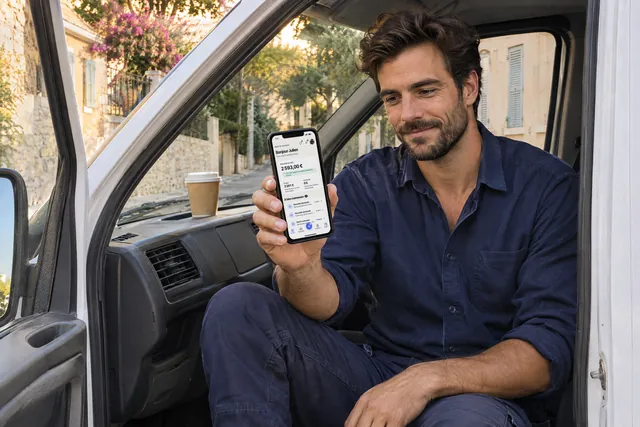
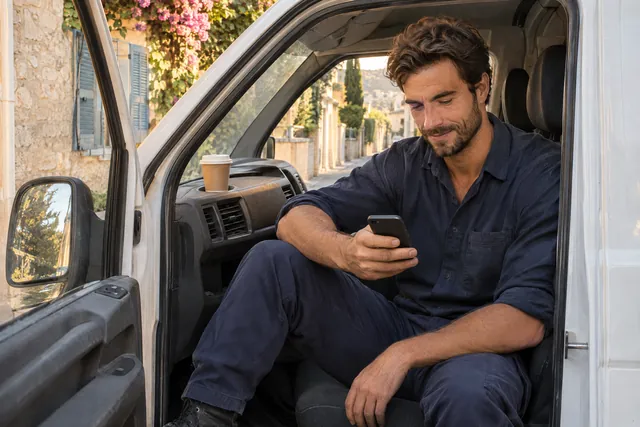
feat(F-121): téléphones tenus naturellement et photo de la côte (lot 27)
Cinq scènes refaites sans écran tourné vers l'objectif (camionnette, réception,
projet, devis, suivi), photo de la côte à la place de la carte dans la section
« Où intervient MENAO ? » de l'accueil. ADR 0273, provenance documentée.

diff --git a/apps/web/src/i18n/fr.ts b/apps/web/src/i18n/fr.ts
@@ -1014,20 +1014,20 @@ export const fr = {
       julienPortrait:
         "Un artisan plombier souriant, bras croisés, adossé à sa camionnette dans une rue de village",
       julienVan:
-        "Un artisan assis dans sa camionnette en fin de journée, souriant devant l'accueil de l'application MENAO sur son téléphone",
+        "Un artisan assis dans sa camionnette en fin de journée regarde son téléphone en souriant",
       meeting: "Une particulière accueille un artisan à la porte de son appartement",
       handover:
         "Un artisan et sa cliente dans une salle de bain rénovée : elle signe la réception du chantier sur un téléphone",
-      camilleProject:
-        "Une particulière décrit à voix haute les travaux de sa salle de bain ancienne, son téléphone à la main",
+      camilleProject: "Une particulière photographie sa salle de bain ancienne avec son téléphone",
       camilleArtisans:
         "Une particulière sur son canapé choisit des artisans vérifiés dans l'application MENAO",
-      camilleQuote:
-        "Une particulière à sa table de cuisine s'apprête à signer un devis sur son téléphone",
+      camilleQuote: "Une particulière à sa table de cuisine signe un devis sur son téléphone",
       camilleFollow:
         "Une particulière en terrasse de café suit l'avancement de son chantier sur son téléphone",
       camillePortrait:
         "Une particulière souriante dans sa salle de bain rénovée, avec une douche à l'italienne",
+      coast:
+        "Vue aérienne d'un littoral méditerranéen : villages aux toits de tuiles, petit port et collines boisées",
     },
     home: "Accueil",
     clientSteps: {

diff --git a/apps/web/src/components/site/zone-section.tsx b/apps/web/src/components/site/zone-section.tsx
@@ -4,6 +4,7 @@ import Link from "next/link";
 import { ButtonLink } from "@/components/ui";
 import { fr } from "@/i18n/fr";
 import { COAST, COMMUNE_COORDS } from "@/lib/site/commune-coords";
+import { ScenePhoto } from "./scene-photo";
 
 const t = fr.home.zone;
 const about = fr.pages.about;
@@ -92,8 +93,9 @@ export function ZoneMap({
 }
 
 /**
- * « Où intervient MENAO ? » (ADR 0264) : texte de « À propos », carte du 06 et communes couvertes,
- * avec le lien vers la page carrefour /villes.
+ * « Où intervient MENAO ? » (ADR 0264) : texte de « À propos », photo de la côte (ADR 0273) et
+ * communes couvertes, avec le lien vers la page carrefour /villes. La carte reste sur les pages
+ * métier-ville, où elle situe la commune.
  */
 export function ZoneSection({ id, communes }: { id: string; communes: readonly Commune[] }) {
   return (
@@ -118,8 +120,12 @@ export function ZoneSection({ id, communes }: { id: string; communes: readonly C
           </div>
         </div>
         <div className="flex min-w-0 flex-1 flex-col gap-4">
-          <div className="overflow-hidden rounded-[1.25rem] border border-border">
-            <ZoneMap communes={communes} />
+          <div className="aspect-[3/2] overflow-hidden rounded-[1.25rem]">
+            <ScenePhoto
+              scene="coast"
+              sizes="(min-width: 1024px) 620px, 92vw"
+              className="size-full"
+            />
           </div>
           <ul aria-label={t.communesLabel} className="flex flex-wrap gap-2">
             {communes.map((commune) => (

diff --git a/apps/web/src/components/site/scene-photo.tsx b/apps/web/src/components/site/scene-photo.tsx
@@ -2,8 +2,8 @@ import { fr } from "@/i18n/fr";
 
 /**
  * Photos de scènes du site (ADR 0271) : Julien, artisan, et Camille, cliente, deux personnages
- * fictifs générés par IA, avec les vrais écrans de l'application dans leurs téléphones. WebP
- * précompressés dans public/images/scenes (1 600, 960 et 640 px), sans optimisation Vercel.
+ * fictifs générés par IA, téléphone tenu naturellement (ADR 0273), et la côte des Alpes-Maritimes.
+ * WebP précompressés dans public/images/scenes (1 600, 960 et 640 px), sans optimisation Vercel.
  */
 const FILES = {
   julienPortrait: "julien-portrait",
@@ -15,6 +15,7 @@ const FILES = {
   camilleQuote: "camille-devis",
   camilleFollow: "camille-suivi",
   camillePortrait: "camille-portrait",
+  coast: "cote-alpes-maritimes",
 } as const;
 
 export type SceneKey = keyof typeof FILES;

diff --git a/apps/web/src/app/(site)/comment-ca-marche/page.tsx b/apps/web/src/app/(site)/comment-ca-marche/page.tsx
@@ -125,7 +125,7 @@ export default function HowItWorksPage() {
                   </h3>
                   <p className="leading-relaxed text-pretty text-muted-foreground">{step.text}</p>
                 </div>
-                {/* La scène de l'étape, avec le vrai écran dans le téléphone (ADR 0271). */}
+                {/* La scène de l'étape (ADR 0271, ADR 0273). */}
                 <div
                   className={`aspect-[3/2] overflow-hidden rounded-card bg-primary-soft ${i % 2 ? "lg:order-1" : ""}`}
                 >

diff --git a/apps/web/src/app/(site)/pro/page.tsx b/apps/web/src/app/(site)/pro/page.tsx
@@ -455,7 +455,7 @@ export default async function ProLandingPage() {
               <ScenePhoto
                 scene="handover"
                 sizes="(min-width: 1024px) 480px, 85vw"
-                position="38% 45%"
+                position="28% 45%"
                 className="size-full"
               />
             </div>

diff --git a/docs/images/photos-generees.md b/docs/images/photos-generees.md
@@ -701,6 +701,7 @@ Neuf scènes avec deux personnages récurrents : Julien, artisan plombier, et Ca
 - Constance des visages : chaque scène a été générée avec la fiche de son personnage en image de référence (quatre vues sur fond neutre). Les deux fiches ont été produites le même jour par le propriétaire du projet avec son propre outil de génération, à partir de photos des séries d'octobre ; le nom de cet outil n'est pas connu, il n'est donc pas attribué.
 - Écrans : les téléphones étaient générés avec un écran noir. Les écrans visibles sont de vraies captures de l'application (personnes et données fictives), incrustées ensuite ; rien de l'interface n'est généré.
 - Deux essais par scène, un seul retenu. Prompts exacts, coûts et essais écartés : journal de génération conservé hors du dépôt.
+- Mise à jour du même soir (ADR 0273) : `julien-camionnette`, `reception-chantier`, `camille-projet`, `camille-devis` et `camille-suivi` ont été refaites sans écran incrusté ; leurs lignes ci-dessous décrivent l'ancienne version, la nouvelle est dans la série suivante.
 
 | Fichier | Prompt exact | Écran incrusté | Dimensions | Poids (Ko) |
 |---|---|---|---|---:|
@@ -823,3 +824,90 @@ Style: authentic candid documentary photograph, exceptional photorealism, full-f
 Avoid: any text, letters, numbers, logos, brand names, watermarks, readable signage, license plates, UI or generated screen content, glossy stock-photo posing, wide toothy smiles, plastic or retouched skin, excessive bokeh, HDR, teal-orange cinematic grading, CGI, 3D render, illustration, extra or fused fingers, distorted phone, duplicated objects, children, celebrities. Fictional illustrative scene, not a real customer or a real tradesperson. Return one single photograph: no collage, no border.
 ```
 
+## Série du 10 novembre 2026 (soir) : téléphone tenu naturellement et côte des Alpes-Maritimes (ADR 0273)
+
+Cinq scènes de la série précédente sont refaites : le téléphone y était tourné vers l'objectif (pour y incruster un écran), ce qui donnait des poses fausses. Ici, la personne regarde son écran, on voit le dos du téléphone, et aucun écran n'est incrusté. Les fichiers gardent leur nom ; les prompts de la série précédente, plus haut, ne décrivent donc plus ces cinq images. S'y ajoute la photo de la section « Où intervient MENAO ? » de l'accueil.
+
+- Outil : OpenRouter, API d'images. Modèle : `openai/gpt-image-2.6-sunburst`, 2 400 × 1 600, qualité `high`.
+- Références jointes : les fiches de personnage P1 (Julien) et P2 (Camille) ; aucune pour la côte.
+- Deux essais par image, le meilleur retenu. La côte est une image d'illustration : elle ne reproduit pas un lieu précis.
+
+| Fichier | Prompt exact | Essai retenu | Dimensions | Poids (Ko) |
+|---|---|---|---|---:|
+| [apps/web/public/images/scenes/julien-camionnette.webp](../../apps/web/public/images/scenes/julien-camionnette.webp) | [Prompt exact](#prompt-v2-julien-camionnette) | essai 2 | 1600 × 1067 | 154,286 |
+| [apps/web/public/images/scenes/reception-chantier.webp](../../apps/web/public/images/scenes/reception-chantier.webp) | [Prompt exact](#prompt-v2-reception-chantier) | essai 2 | 1600 × 1067 | 115,324 |
+| [apps/web/public/images/scenes/camille-projet.webp](../../apps/web/public/images/scenes/camille-projet.webp) | [Prompt exact](#prompt-v2-camille-projet) | essai 1 | 1600 × 1067 | 135,216 |
+| [apps/web/public/images/scenes/camille-devis.webp](../../apps/web/public/images/scenes/camille-devis.webp) | [Prompt exact](#prompt-v2-camille-devis) | essai 1 | 1600 × 1067 | 141,632 |
+| [apps/web/public/images/scenes/camille-suivi.webp](../../apps/web/public/images/scenes/camille-suivi.webp) | [Prompt exact](#prompt-v2-camille-suivi) | essai 1 | 1600 × 1067 | 140,068 |
+| [apps/web/public/images/scenes/cote-alpes-maritimes.webp](../../apps/web/public/images/scenes/cote-alpes-maritimes.webp) | [Prompt exact](#prompt-v2-cote-alpes-maritimes) | essai 2 | 1600 × 1067 | 377,118 |
+
+### Prompt julien-camionnette (version du soir)
+
+<a id="prompt-v2-julien-camionnette"></a>
+
+```text
+Output: one landscape 3:2 photograph, 2400 x 1600 px or the highest native resolution available.
+Late afternoon golden light. Julien sits sideways on the driver's seat of his parked plain white work van, door open, engine off, one foot on the step. He holds his smartphone low in one hand, forearm resting on his thigh, and looks down at it with a quiet satisfied smile; a paper cup of coffee on the dashboard. A pale-stone residential street near Nice outside. JULIEN: fictional French plumber, 36 years old, medium height, lean athletic build, lightly tanned skin, thick wavy dark-brown hair slightly tousled, short full dark beard, dark-brown eyes, calm friendly face. He is the SAME MAN as in the attached Julien reference images: keep his face, hair, beard and build identical. Outfit: plain navy cotton work shirt with sleeves rolled to the forearm, navy work trousers, no apron, no logo anywhere. Composition: seen through the open door at eye level, Julien centred-right, from the knees up; neither hand on the steering wheel.
+Phone (critical): a modern unbranded smartphone used NATURALLY, exactly the way people really use a phone. Its screen faces the person who is looking at it, never the camera. The camera sees only the plain dark matte BACK of the phone or its thin edge; the display is not visible, or at most a thin foreshortened sliver. No logo on the back. The eyes of the person are clearly directed at the screen. Relaxed natural grip with correct hand anatomy: thumb on the near side, the other fingers wrapped behind the phone, wrist straight, nothing twisted. The phone is small in the frame, it is never presented, raised or shown to the camera like in an advertisement.
+Style: authentic candid documentary photograph, exceptional photorealism, full-frame 35-40 mm lens at f/4, realistic skin pores and small imperfections, natural hair and fabric texture, light photographic grain. Soft natural Côte d'Azur daylight, gentle neutral-warm grading with subtle cool blue shadows, palette of pale limestone, cream and navy blue, restrained contrast. Correct human anatomy, five fingers per hand, natural grip. Homogeneous MENAO series aesthetic, same look as the reference images.
+Avoid: any text, letters, numbers, logos, brand names, watermarks, readable signage, license plates, UI or generated screen content, glossy stock-photo posing, wide toothy smiles, plastic or retouched skin, excessive bokeh, HDR, teal-orange cinematic grading, CGI, 3D render, illustration, extra or fused fingers, distorted phone, phone screen turned toward the camera, phone held up beside the face, hand twisted backwards, duplicated objects, children, celebrities. Fictional illustrative scene, not a real customer or a real tradesperson. Return one single photograph: no collage, no border.
+```
+
+### Prompt reception-chantier (version du soir)
+
+<a id="prompt-v2-reception-chantier"></a>
+
+```text
+Output: one landscape 3:2 photograph, 2400 x 1600 px or the highest native resolution available.
+Julien and Camille stand side by side, shoulders almost touching, in the same small bathroom after renovation: walk-in shower with an extra-flat white shower tray and a fixed clear-glass panel, thermostatic shower column, large-format pale stone wall tiles, oak vanity unit with a white basin and a round mirror, frosted window, everything new and spotless. Julien holds his smartphone between them at chest height, tilted up so that they can both read it; Camille signs on its screen with her index finger. Both look down at the phone and smile naturally. JULIEN: fictional French plumber, 36 years old, medium height, lean athletic build, lightly tanned skin, thick wavy dark-brown hair slightly tousled, short full dark beard, dark-brown eyes, calm friendly face. He is the SAME MAN as in the attached Julien reference images: keep his face, hair, beard and build identical. Outfit: plain navy cotton work shirt with sleeves rolled to the forearm, navy work trousers, no apron, no logo anywhere. CAMILLE: fictional French woman, 38 years old, slim, light olive skin, shoulder-length wavy dark-brown hair, dark-brown eyes, natural minimal make-up, warm intelligent face. She is the SAME WOMAN as in the attached Camille reference images: keep her face, hair and build identical. Outfit: cream linen shirt with sleeves rolled, dark straight jeans, no jewellery except a thin watch. Composition: medium shot from the hips up, camera at eye level facing them, the two people on the left two-thirds, the glass panel and the vanity unit clearly visible on the right.
+Phone (critical): a modern unbranded smartphone used NATURALLY, exactly the way people really use a phone. Its screen faces the person who is looking at it, never the camera. The camera sees only the plain dark matte BACK of the phone or its thin edge; the display is not visible, or at most a thin foreshortened sliver. No logo on the back. The eyes of the person are clearly directed at the screen. Relaxed natural grip with correct hand anatomy: thumb on the near side, the other fingers wrapped behind the phone, wrist straight, nothing twisted. The phone is small in the frame, it is never presented, raised or shown to the camera like in an advertisement.
+Style: authentic candid documentary photograph, exceptional photorealism, full-frame 35-40 mm lens at f/4, realistic skin pores and small imperfections, natural hair and fabric texture, light photographic grain. Soft natural Côte d'Azur daylight, gentle neutral-warm grading with subtle cool blue shadows, palette of pale limestone, cream and navy blue, restrained contrast. Correct human anatomy, five fingers per hand, natural grip. Homogeneous MENAO series aesthetic, same look as the reference images.
+Avoid: any text, letters, numbers, logos, brand names, watermarks, readable signage, license plates, UI or generated screen content, glossy stock-photo posing, wide toothy smiles, plastic or retouched skin, excessive bokeh, HDR, teal-orange cinematic grading, CGI, 3D render, illustration, extra or fused fingers, distorted phone, phone screen turned toward the camera, phone held up beside the face, hand twisted backwards, duplicated objects, children, celebrities. Fictional illustrative scene, not a real customer or a real tradesperson. Return one single photograph: no collage, no border.
+```
+
+### Prompt camille-projet (version du soir)
+
+<a id="prompt-v2-camille-projet"></a>
+
+```text
+Output: one landscape 3:2 photograph, 2400 x 1600 px or the highest native resolution available.
+Camille stands in the doorway of a small dated bathroom in a Nice apartment before renovation: built-in white bathtub with an old shower curtain, 1970s yellow-beige patterned wall tiles, white pedestal washbasin, round mirror, terracotta floor tiles, one frosted window, clean but clearly old. She is taking a photo of the old bathtub with her smartphone: she holds the phone upright in both hands at chest height in front of her, aimed at the bathtub, and looks at its screen with a thoughtful, concentrated expression. CAMILLE: fictional French woman, 38 years old, slim, light olive skin, shoulder-length wavy dark-brown hair, dark-brown eyes, natural minimal make-up, warm intelligent face. She is the SAME WOMAN as in the attached Camille reference images: keep her face, hair and build identical. Outfit: cream linen shirt with sleeves rolled, dark straight jeans, no jewellery except a thin watch. Composition: medium shot from the hips up, camera inside the bathroom looking toward the doorway; Camille on the right third in three-quarter front view, the old bathtub and patterned tiles clearly readable on the left.
+Phone (critical): a modern unbranded smartphone used NATURALLY, exactly the way people really use a phone. Its screen faces the person who is looking at it, never the camera. The camera sees only the plain dark matte BACK of the phone or its thin edge; the display is not visible, or at most a thin foreshortened sliver. No logo on the back. The eyes of the person are clearly directed at the screen. Relaxed natural grip with correct hand anatomy: thumb on the near side, the other fingers wrapped behind the phone, wrist straight, nothing twisted. The phone is small in the frame, it is never presented, raised or shown to the camera like in an advertisement.
+Style: authentic candid documentary photograph, exceptional photorealism, full-frame 35-40 mm lens at f/4, realistic skin pores and small imperfections, natural hair and fabric texture, light photographic grain. Soft natural Côte d'Azur daylight, gentle neutral-warm grading with subtle cool blue shadows, palette of pale limestone, cream and navy blue, restrained contrast. Correct human anatomy, five fingers per hand, natural grip. Homogeneous MENAO series aesthetic, same look as the reference images.
+Avoid: any text, letters, numbers, logos, brand names, watermarks, readable signage, license plates, UI or generated screen content, glossy stock-photo posing, wide toothy smiles, plastic or retouched skin, excessive bokeh, HDR, teal-orange cinematic grading, CGI, 3D render, illustration, extra or fused fingers, distorted phone, phone screen turned toward the camera, phone held up beside the face, hand twisted backwards, duplicated objects, children, celebrities. Fictional illustrative scene, not a real customer or a real tradesperson. Return one single photograph: no collage, no border.
+```
+
+### Prompt camille-devis (version du soir)
+
+<a id="prompt-v2-camille-devis"></a>
+
+```text
+Output: one landscape 3:2 photograph, 2400 x 1600 px or the highest native resolution available.
+Camille sits at a wooden kitchen table by a window, a cup of coffee and a folded tile sample beside her. She holds her smartphone low in her left hand just above the table, tilted up toward her, and signs on its screen with her right index finger, looking down at it with a relieved, confident small smile. CAMILLE: fictional French woman, 38 years old, slim, light olive skin, shoulder-length wavy dark-brown hair, dark-brown eyes, natural minimal make-up, warm intelligent face. She is the SAME WOMAN as in the attached Camille reference images: keep her face, hair and build identical. Outfit: cream linen shirt with sleeves rolled, dark straight jeans, no jewellery except a thin watch. Composition: three-quarter front view from across the table at seated eye level, Camille on the left third from the chest up, both hands and the phone visible above the table, calm Mediterranean kitchen background on the right.
+Phone (critical): a modern unbranded smartphone used NATURALLY, exactly the way people really use a phone. Its screen faces the person who is looking at it, never the camera. The camera sees only the plain dark matte BACK of the phone or its thin edge; the display is not visible, or at most a thin foreshortened sliver. No logo on the back. The eyes of the person are clearly directed at the screen. Relaxed natural grip with correct hand anatomy: thumb on the near side, the other fingers wrapped behind the phone, wrist straight, nothing twisted. The phone is small in the frame, it is never presented, raised or shown to the camera like in an advertisement.
+Style: authentic candid documentary photograph, exceptional photorealism, full-frame 35-40 mm lens at f/4, realistic skin pores and small imperfections, natural hair and fabric texture, light photographic grain. Soft natural Côte d'Azur daylight, gentle neutral-warm grading with subtle cool blue shadows, palette of pale limestone, cream and navy blue, restrained contrast. Correct human anatomy, five fingers per hand, natural grip. Homogeneous MENAO series aesthetic, same look as the reference images.
+Avoid: any text, letters, numbers, logos, brand names, watermarks, readable signage, license plates, UI or generated screen content, glossy stock-photo posing, wide toothy smiles, plastic or retouched skin, excessive bokeh, HDR, teal-orange cinematic grading, CGI, 3D render, illustration, extra or fused fingers, distorted phone, phone screen turned toward the camera, phone held up beside the face, hand twisted backwards, duplicated objects, children, celebrities. Fictional illustrative scene, not a real customer or a real tradesperson. Return one single photograph: no collage, no border.
+```
+
+### Prompt camille-suivi (version du soir)
+
+<a id="prompt-v2-camille-suivi"></a>
+
+```text
+Output: one landscape 3:2 photograph, 2400 x 1600 px or the highest native resolution available.
+Camille sits at a small table on a shaded café terrace in the old town of Nice, pale ochre façades softly blurred behind her, an espresso on the table. She holds her smartphone in her right hand at chest height and looks down at it with a happy, pleasantly surprised smile, as if she had just received good news from home; her left hand rests near the cup. CAMILLE: fictional French woman, 38 years old, slim, light olive skin, shoulder-length wavy dark-brown hair, dark-brown eyes, natural minimal make-up, warm intelligent face. She is the SAME WOMAN as in the attached Camille reference images: keep her face, hair and build identical. Outfit: cream linen shirt with sleeves rolled, dark straight jeans, no jewellery except a thin watch. (here with a light navy blazer over the cream shirt). Composition: medium shot from the waist up, three-quarter front view, Camille left of centre, terrace and street on the right.
+Phone (critical): a modern unbranded smartphone used NATURALLY, exactly the way people really use a phone. Its screen faces the person who is looking at it, never the camera. The camera sees only the plain dark matte BACK of the phone or its thin edge; the display is not visible, or at most a thin foreshortened sliver. No logo on the back. The eyes of the person are clearly directed at the screen. Relaxed natural grip with correct hand anatomy: thumb on the near side, the other fingers wrapped behind the phone, wrist straight, nothing twisted. The phone is small in the frame, it is never presented, raised or shown to the camera like in an advertisement.
+Style: authentic candid documentary photograph, exceptional photorealism, full-frame 35-40 mm lens at f/4, realistic skin pores and small imperfections, natural hair and fabric texture, light photographic grain. Soft natural Côte d'Azur daylight, gentle neutral-warm grading with subtle cool blue shadows, palette of pale limestone, cream and navy blue, restrained contrast. Correct human anatomy, five fingers per hand, natural grip. Homogeneous MENAO series aesthetic, same look as the reference images.
+Avoid: any text, letters, numbers, logos, brand names, watermarks, readable signage, license plates, UI or generated screen content, glossy stock-photo posing, wide toothy smiles, plastic or retouched skin, excessive bokeh, HDR, teal-orange cinematic grading, CGI, 3D render, illustration, extra or fused fingers, distorted phone, phone screen turned toward the camera, phone held up beside the face, hand twisted backwards, duplicated objects, children, celebrities. Fictional illustrative scene, not a real customer or a real tradesperson. Return one single photograph: no collage, no border.
+```
+
+### Prompt cote-alpes-maritimes (version du soir)
+
+<a id="prompt-v2-cote-alpes-maritimes"></a>
+
+```text
+Output: one landscape 3:2 photograph, 2400 x 1600 px or the highest native resolution available.
+High aerial photograph along the French Riviera coastline in the Alpes-Maritimes, late afternoon: a succession of seaside towns with terracotta roofs and pale façades, small harbours and beaches, strung between green wooded hills on the left and the Mediterranean on the right, the water going from clear turquoise near the shore to deep navy blue; capes and bays recede one after another toward the hazy horizon, first foothills of the Alps in the far distance. Composition: the coastline runs diagonally from the bottom-left corner to the upper-right, land on the left half, sea on the right half.
+Style: authentic landscape photograph, exceptional photorealism, full-frame 35 mm lens at f/8, everything sharp, light photographic grain. Warm late-afternoon Côte d'Azur light, gentle neutral-warm grading with subtle cool blue shadows, palette of pale limestone, terracotta, cream and deep navy-blue sea, restrained contrast, soft atmospheric haze in the distance.
+Avoid: any text, letters, numbers, logos, watermarks, readable signage, recognisable people, famous monuments reproduced exactly, cruise ships, cars in the foreground, HDR, oversaturated postcard colours, teal-orange cinematic grading, CGI, 3D render, illustration, tilt-shift, fisheye distortion. Illustrative image. Return one single photograph: no collage, no border.
+```

diff --git a/docs/adr/0273-photos-telephone-naturel-cote.md b/docs/adr/0273-photos-telephone-naturel-cote.md
@@ -1,0 +1,20 @@
+# ADR 0273 — Téléphones tenus naturellement et photo de la côte (lot 27)
+
+- Statut : accepté
+- Date : 10 novembre 2026
+- Suite de l'ADR 0271 (photos de Julien et de Camille) et de l'ADR 0264 (section « Où intervient MENAO ? »).
+
+## Contexte
+Dans cinq photos du lot 25, le téléphone était tourné vers l'objectif pour y incruster un vrai écran. Résultat : des poses fausses (personne qui regarde le dos de son téléphone, main à l'envers) et un écran trop petit pour être lu. Sur l'accueil, la carte dessinée de la section « Où intervient MENAO ? » faisait pauvre à côté des photos.
+
+## Décision
+- **Cinq scènes refaites** avec la même chaîne (mêmes personnages, mêmes décors) : la personne regarde son écran, on voit le dos du téléphone. Aucun écran incrusté dans ces photos ; le produit se montre dans les mockups (ADR 0270), pas dans les mains des personnages. Mêmes noms de fichiers, mêmes emplacements.
+- **Photo de la côte** à la place de la carte dans `ZoneSection` (accueil) : image d'illustration générée, qui ne reproduit pas un lieu précis ; son texte alternatif ne nomme aucune ville. Les communes restent listées sous la photo.
+- **La carte `ZoneMap` reste** sur les pages métier-ville, où elle situe la commune.
+- Textes alternatifs mis à jour (`fr.site.scenes`). Aucun texte visible ajouté ni modifié.
+- Provenance et prompts exacts dans `docs/images/photos-generees.md`.
+
+## Conséquences
+- `camille-artisans` garde son écran incrusté : la vue par-dessus l'épaule y est naturelle.
+- Le film de vente (hors dépôt) part des anciennes photos : à reprendre si ces poses gênent aussi à l'écran.
+- Le TODO(legal) de l'ADR 0271 sur le signalement des images générées vaut aussi pour la photo de la côte.
